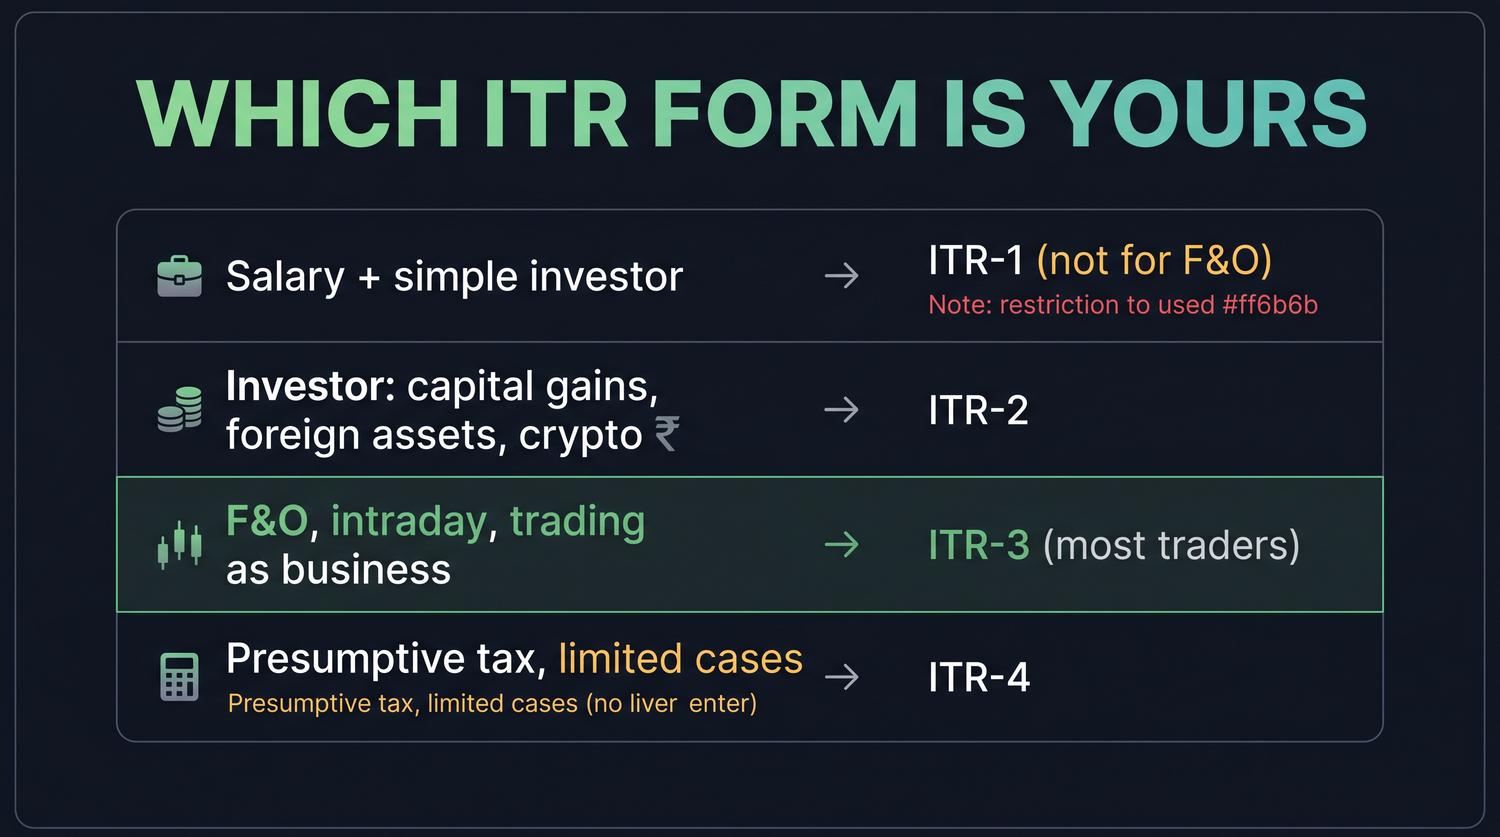
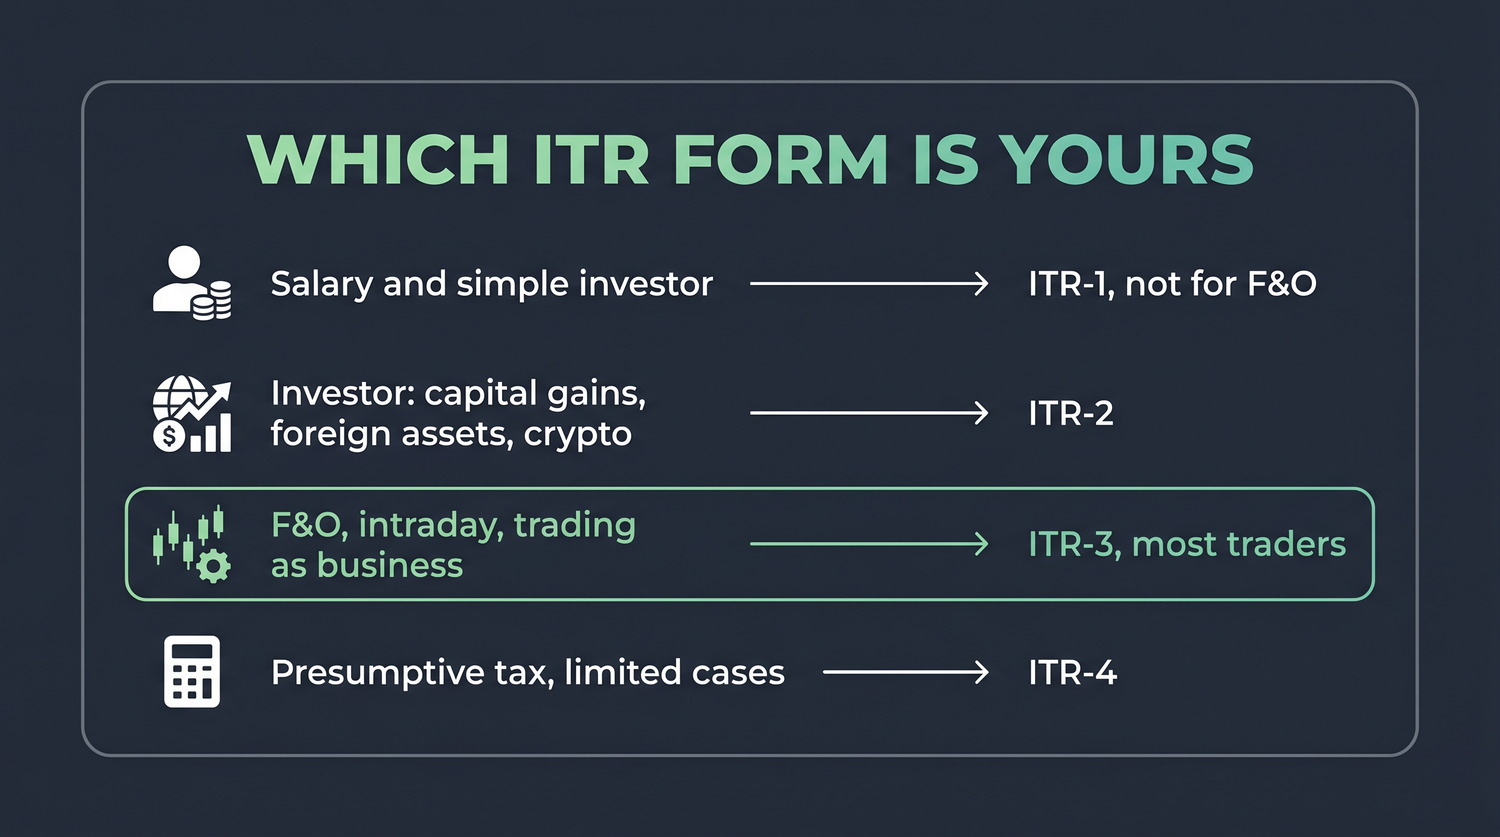
Site updates: 15-tool suite, options-strategies as Intermediate, NIFTY finale, ITR diagram fix
- Home and features pages: the Options Analytics suite is now 15 tools, not 12.
  Adds OI Range, Gamma Density and the Arbitrage scanner (matching the current
  OpenAlgo Tools hub) and bumps every "12-tool" reference to "15-tool".
- Options Strategies is re-labelled Intermediate (it covers all 38 builder
  strategies with the full nine-metric panel). Refreshes the stale landing page
  copy (was "14-chapter, beginner") to the live-NIFTY, 38-strategy reality.
- Rewrites the finale chapter (choosing-and-managing) onto live NIFTY numbers;
  it was the last chapter still using the old RELIANCE figures, which clashed
  with the rest of the NIFTY course. Adds a probability-of-profit step.
- Regenerates the taxation ITR-forms diagram (the prior render leaked stray
  text and a colour code).

diff --git a/app/options-strategies/page.jsx b/app/options-strategies/page.jsx
@@ -5,10 +5,10 @@ import { CHAPTERS, PARTS, TAG_CLASS } from "@/lib/optionsStrategiesCurriculum";
 
 const OG_IMAGE = "https://openalgo.in/assets/images/og-image.png";
 const LANDING_DESC =
-  "A free, modern, beginner-friendly 14-chapter course on options strategies. Combine calls and puts into real, named strategies, each explained for a beginner with an authentic payoff diagram built from OpenAlgo's own strategy-builder maths on real market data. Learn to read breakeven, max profit and max loss, then the directional spreads, straddles and strangles, the iron condor, iron fly and butterfly, ratio and back spreads, synthetics, the covered call, the jade lizard, and how to choose and manage a strategy. No prior knowledge assumed.";
+  "A free, modern course on options strategies for the developing trader. Build all 38 strategies in the OpenAlgo strategy builder, each with an authentic payoff chart and the full nine-metric panel (max profit, max loss, probability of profit, risk to reward, margin and more) drawn from the builder's own maths on live NIFTY data. Read the directional spreads, straddles and strangles, the iron condor, iron fly and butterfly, ratio and back spreads, synthetics, the jade lizard, batman, calendars and diagonals, plus margin, collateral, pledging, penalties and options adjustments, and learn to choose and manage a trade. Some options basics assumed.";
 
 export const metadata = {
-  title: { absolute: "Options Strategies - A Free Beginner's Course | OpenAlgo" },
+  title: { absolute: "Options Strategies - A Free Course for Traders | OpenAlgo" },
   description: LANDING_DESC,
   keywords: [
     "options strategies", "options strategies for beginners", "options strategies course", "option spreads",
@@ -19,14 +19,14 @@ export const metadata = {
   openGraph: {
     type: "website",
     url: "https://openalgo.in/options-strategies",
-    title: "Options Strategies - A Free Beginner's Course",
+    title: "Options Strategies - A Free Course for Traders",
     description: LANDING_DESC,
     siteName: "OpenAlgo",
     images: [{ url: OG_IMAGE, width: 1200, height: 630, alt: "Options Strategies course by OpenAlgo", type: "image/png" }],
   },
   twitter: {
     card: "summary_large_image",
-    title: "Options Strategies - A Free Beginner's Course",
+    title: "Options Strategies - A Free Course for Traders",
     description: LANDING_DESC,
     images: [OG_IMAGE],
     creator: "@openalgoHQ",
@@ -84,10 +84,10 @@ export default function OptionsStrategiesCourseHome() {
             Strategies
           </h1>
           <p className="reveal reveal-3 mt-5 max-w-2xl text-lg text-on-surface-variant">
-            Ready to combine calls and puts into real, named strategies? A modern, visual, beginner-first course where
-            every strategy comes with an authentic payoff diagram built from OpenAlgo&apos;s own strategy-builder maths
-            on real market data - so you see exactly where you profit, where you lose, and where you break even, from
-            simple spreads to the iron condor and beyond.
+            Ready to combine calls and puts into real, named strategies? A modern, visual course where every one of the
+            38 strategies comes with an authentic payoff diagram and the full nine-metric panel, built from
+            OpenAlgo&apos;s own strategy-builder maths on live NIFTY data, so you see exactly where you profit, where you
+            lose, and where you break even, from simple spreads to the iron condor and beyond.
           </p>
           <div className="reveal reveal-4 mt-8 flex flex-wrap gap-3">
             <Link
@@ -127,10 +127,10 @@ export default function OptionsStrategiesCourseHome() {
           <h2 className="text-lg font-bold text-on-surface">Why this course?</h2>
           <p className="mt-2 max-w-3xl text-on-surface-variant">
             Most options-strategy material throws named structures at you with textbook diagrams that never match a
-            real trade. This one is different: every strategy is explained for a beginner and drawn with an authentic
-            payoff diagram from OpenAlgo&apos;s own strategy-builder maths on real market data. It is honest about the
-            risk on each structure - defined or unlimited - and stresses defined risk first. The goal is to make you
-            read any payoff with clear eyes and match a strategy to your view, so you can make your own informed decisions.
+            real trade. This one is different: every strategy is drawn with an authentic payoff diagram and its nine
+            numbers from OpenAlgo&apos;s own strategy-builder maths on live NIFTY data. It is honest about the risk on
+            each structure, defined or unlimited, and stresses defined risk first. The goal is to make you read any
+            payoff with clear eyes and match a strategy to your view, so you can make your own informed decisions.
           </p>
         </div>
       </div>
@@ -168,7 +168,7 @@ export default function OptionsStrategiesCourseHome() {
           </section>
         ))}
         <p className="mt-14 border-t border-border pt-6 text-center text-sm text-on-surface-variant/70">
-          For education only - not investment advice. {CHAPTERS.length} chapters, built on real payoff charts for beginners.
+          For education only - not investment advice. {CHAPTERS.length} chapters, built on real payoff charts from live NIFTY data.
         </p>
       </div>
     </div>

diff --git a/app/features/page.js b/app/features/page.js
@@ -6,7 +6,7 @@ import {
   MessageCircle, LayoutDashboard, Terminal, Webhook, Activity,
   BarChart3, Gauge, FileJson, Brain, Search, Clock, GitMerge, Key, ShieldCheck,
   AlertCircle, User, Mail, Smartphone, History, Container,
-  Wand2, Layers, Target, Box, Sigma, PieChart, Wallet
+  Wand2, Layers, Target, Box, Sigma, PieChart, Wallet, Waves, ArrowLeftRight
 } from "lucide-react"
 
 const features = [
@@ -15,13 +15,16 @@ const features = [
   { title: "Option Chain", description: "Live option chain with Greeks, open interest, volume, and bid/ask - click any strike to trade instantly", icon: Layers, category: "Options Analytics" },
   { title: "Option Greeks Chart", description: "See how IV, Delta, Theta, Vega and Gamma have moved over time for the at-the-money strike", icon: Gauge, category: "Options Analytics" },
   { title: "OI Tracker", description: "Side-by-side call and put open interest with PCR and a marker showing where the spot is right now", icon: Activity, category: "Options Analytics" },
+  { title: "OI Range", description: "Open interest by strike across a custom range, with at-the-money quick selectors and optional one-minute auto-refresh", icon: BarChart3, category: "Options Analytics" },
   { title: "Max Pain", description: "Where price is most likely to settle at expiry, shown visually across all strikes", icon: Target, category: "Options Analytics" },
   { title: "Straddle Chart", description: "Combined price of the at-the-money call and put, with automatic strike roll as spot moves", icon: LineChart, category: "Options Analytics" },
   { title: "Straddle PnL Simulator", description: "Simulate how a straddle would have played out intraday with automated adjustments and a full trade log", icon: BarChart3, category: "Options Analytics" },
   { title: "Volatility Surface", description: "Live 3D view of implied volatility across every strike and expiry - spot skew and term structure at a glance", icon: Box, category: "Options Analytics" },
   { title: "GEX Dashboard", description: "See where market makers are positioned - find the biggest gamma walls acting as support and resistance", icon: Sigma, category: "Options Analytics" },
+  { title: "Gamma Density", description: "Gamma times open interest density and convexity zones, with intraday and to-expiry views, ATM IV, and one and two sigma expected-move bands", icon: Waves, category: "Options Analytics" },
   { title: "IV Smile", description: "Call and put implied volatility curves with the at-the-money marker, so you can read skew instantly", icon: PieChart, category: "Options Analytics" },
   { title: "OI Profile", description: "Futures candles with a call vs put open-interest butterfly and daily OI change - price action and positioning in one view", icon: Wallet, category: "Options Analytics" },
+  { title: "Arbitrage Scanner", description: "Realtime futures calendar-spread scanner across NFO and MCX, ranked by executable bid/ask spread, with one-click two-leg orders", icon: ArrowLeftRight, category: "Options Analytics" },
   { title: "Smart Orders", description: "Tell OpenAlgo the position you want and it works out the math - no more tracking holdings or calculating reverse quantities by hand", icon: Brain, category: "Order Management" },
   { title: "Basket Orders", description: "Fire multiple orders across symbols in one request - perfect for hedge pairs, spreads, or rebalancing a portfolio in one shot", icon: Package, category: "Order Management" },
   { title: "All Order Types", description: "Market, Limit, Stop-Loss and Stop-Loss Market orders across CNC, MIS, NRML - everything you need to place any trade", icon: FileJson, category: "Order Management" },
@@ -114,7 +117,7 @@ export default function FeaturesPage() {
             </h1>
             <p className="text-lg text-on-surface-variant max-w-3xl mx-auto leading-relaxed">
               OpenAlgo is a complete self-hosted stack for algo trading and options analytics -
-              a 12-tool options suite, a unified execution engine, and integrations across 33+ brokers,
+              a 15-tool options suite, a unified execution engine, and integrations across 33+ brokers,
               built for individual traders who want full control of their infrastructure.
             </p>
           </div>

diff --git a/app/features/metadata.js b/app/features/metadata.js
@@ -1,10 +1,10 @@
 export const metadata = {
   title: 'Features - Why OpenAlgo? | OpenAlgo',
-  description: 'Self-hosted algo trading + options analytics platform. 12-tool options suite (strategy builder, option chain, Greeks, OI, max pain, vol surface, GEX), multi-broker execution, and open-source infrastructure.',
+  description: 'Self-hosted algo trading + options analytics platform. 15-tool options suite (strategy builder, option chain, Greeks, OI, max pain, vol surface, GEX), multi-broker execution, and open-source infrastructure.',
   keywords: 'OpenAlgo features, algo trading platform, options analytics, options strategy builder, option chain, Greeks, open interest, max pain, vol surface, GEX, IV smile, AGPL license, open source trading, broker API, Python strategies, WebSocket streaming',
   openGraph: {
     title: 'Features - Why OpenAlgo? | OpenAlgo',
-    description: 'Self-hosted algo trading + options analytics platform. 12-tool options suite, multi-broker execution, advanced order management, and complete trading infrastructure.',
+    description: 'Self-hosted algo trading + options analytics platform. 15-tool options suite, multi-broker execution, advanced order management, and complete trading infrastructure.',
     url: 'https://openalgo.in/features',
     siteName: 'OpenAlgo',
     images: [
@@ -21,7 +21,7 @@ export const metadata = {
   twitter: {
     card: 'summary_large_image',
     title: 'Features - Why OpenAlgo? | OpenAlgo',
-    description: 'Self-hosted algo trading + options analytics platform. 12-tool options suite, multi-broker execution, and complete trading infrastructure.',
+    description: 'Self-hosted algo trading + options analytics platform. 15-tool options suite, multi-broker execution, and complete trading infrastructure.',
     images: ['/api/og?title=Why%20OpenAlgo%3F&subtitle=Features%20%26%20Licensing']
   }
 }

diff --git a/app/learn/page.jsx b/app/learn/page.jsx
@@ -153,14 +153,14 @@ const COURSES = [
     n: 8,
     route: "/options-strategies",
     title: "Options Strategies",
-    level: "Beginner",
+    level: "Intermediate",
     count: OS.length,
     color: "text-primary",
     ring: "hsl(267 100% 87% / 0.5)",
     grad: "from-primary via-tertiary to-secondary",
     blurb:
-      "Combine calls and puts into real, named strategies. Spreads, straddles and strangles, the iron condor, butterfly, ratios, synthetics and the jade lizard - each with an authentic payoff diagram from OpenAlgo's strategy-builder maths on real market data.",
-    points: ["Real strategy-builder payoffs", "Spreads to iron condors", "Defined risk first"],
+      "All 38 strategies in the OpenAlgo strategy builder, each with an authentic payoff chart and the full nine-metric panel (max profit, max loss, POP, risk to reward, margin) built on live NIFTY data. Spreads, straddles, iron condors and flies, ratios, jade lizards, batman, calendars, plus margin, pledging and adjustments.",
+    points: ["All 38 builder strategies", "Live NIFTY nine-metric panels", "Defined risk first"],
   },
   {
     n: 9,

diff --git a/app/page.js b/app/page.js
@@ -71,7 +71,7 @@ export default function Home() {
     {
       icon: LineChart,
       title: "Options & Strategy Analytics",
-      description: "12 built-in tools: strategy builder, option chain, Greeks, OI, max pain, vol surface, GEX.",
+      description: "15 built-in tools: strategy builder, option chain, Greeks, OI tracker and range, max pain, straddles, vol surface, GEX, gamma density, IV smile, and a futures arbitrage scanner.",
     },
     {
       icon: Server,
@@ -152,7 +152,7 @@ export default function Home() {
             <div className="w-2 h-2 rounded-full bg-tertiary pulse-live" />
             <span className="font-label text-label-md uppercase tracking-wider">
               <span className="text-primary">New in V2</span>
-              <span className="text-on-surface-variant"> - 12-Tool Options Analytics Suite</span>
+              <span className="text-on-surface-variant"> - 15-Tool Options Analytics Suite</span>
             </span>
             <ArrowRight className="w-3 h-3 text-primary" />
           </div>

diff --git a/lib/optionsStrategiesCurriculum.js b/lib/optionsStrategiesCurriculum.js
@@ -5,7 +5,7 @@
 
 export const SERIES_TITLE = "Options Strategies";
 export const SERIES_SUB =
-  "Every strategy in the OpenAlgo strategy builder, explained for a beginner. All 38 named structures come with an authentic payoff diagram and the full nine-metric panel (max profit, max loss, probability of profit, risk to reward, margin and more) built from OpenAlgo's own strategy-builder maths on live NIFTY data, so you see exactly what the builder shows.";
+  "Every strategy in the OpenAlgo strategy builder, explained clearly for the developing options trader. All 38 named structures come with an authentic payoff diagram and the full nine-metric panel (max profit, max loss, probability of profit, risk to reward, margin and more) built from OpenAlgo's own strategy-builder maths on live NIFTY data, so you see exactly what the builder shows.";
 
 export const PARTS = [
   {

diff --git a/content/options-strategies/md/ch26.md b/content/options-strategies/md/ch26.md
@@ -1,43 +1,43 @@
-You have spent this whole course meeting strategies one at a time, learning each by its payoff shape and its three numbers. Now comes the part that decides whether any of it makes you money: choosing the right one for the moment and managing it once it is on. A strategy is just a tool, and the best tool is the one that fits the job and the size of your account. This closing chapter pulls everything together. It maps your market view to a sensible structure, explains why a beginner should start with defined risk, shows how to size a position so a single bad trade cannot end your trading, and lays out clear rules for taking profit, adjusting, and walking away. We finish with a checklist you can run before every trade.
+You have spent this whole course meeting strategies one at a time, learning each by its payoff shape and its three numbers. Now comes the part that decides whether any of it makes you money: choosing the right one for the moment and managing it once it is on. A strategy is just a tool, and the best tool is the one that fits the job and the size of your account. This closing chapter pulls everything together. It maps your market view to a sensible structure, explains why you should start with defined risk, shows how to size a position so a single bad trade cannot end your trading, and lays out clear rules for taking profit, adjusting, and walking away. We finish with a checklist you can run before every trade.
 
 ## Start with your view, then pick the shape
 
-Every strategy in this course answers a different opinion about where RELIANCE goes next. So the first question is never which strategy, it is what do you actually think will happen. Are you bullish, bearish, expecting calm, or bracing for a big move in either direction? Once that is honest and specific, the structure almost picks itself.
+Every strategy in this course answers a different opinion about where NIFTY goes next. So the first question is never which strategy, it is what do you actually think will happen. Are you bullish, bearish, expecting calm, or bracing for a big move in either direction? Once that is honest and specific, the structure almost picks itself.
 
-{{image: diagram-strategy-by-view.png | The view-to-strategy selector: bullish, bearish, neutral, and big-move opinions each map to the defined-risk structures that fit them, so you choose the shape that matches what you actually expect RELIANCE to do. | diagram}}
+{{image: diagram-strategy-by-view.png | The view-to-strategy selector: bullish, bearish, neutral, and big-move opinions each map to the defined-risk structures that fit them, so you choose the shape that matches what you actually expect NIFTY to do. | diagram}}
 
-Here is the same idea as a table, using the real RELIANCE numbers from across the course so you can compare the three numbers side by side.
+Here is the same idea as a table, using the live NIFTY numbers from across the course (spot 24,056, lot 65, 28 July 2026 expiry) so you can compare the three numbers side by side.
 
 | Your view | Sensible structure | Breakeven(s) | Max profit | Max loss |
 |---|---|---|---|---|
-| Mildly bullish | Bull call spread | 1336 | Rs 12,205 | Rs 7,795 |
-| Bullish, want a credit | Bull put spread | 1304 | Rs 8,210 | Rs 11,790 |
-| Mildly bearish | Bear put spread | 1304 | Rs 11,790 | Rs 8,210 |
-| Bearish, want a credit | Bear call spread | 1336 | Rs 7,795 | Rs 12,205 |
-| Neutral, wide range | Iron condor | 1262 and 1378 | Rs 8,948 | Rs 11,052 |
-| Neutral, pins a strike | Iron fly | 1288 and 1352 | Rs 16,005 | Rs 3,995 |
-| Big move, either way | Long straddle | 1258 and 1382 | Unlimited | Rs 31,180 |
-| Big move, cheaper | Long strangle | 1250 and 1390 | Unlimited | Rs 15,176 |
+| Mildly bullish | Bull call spread | 24,106 | Rs 2,876 | Rs 3,624 |
+| Bullish, want a credit | Bull put spread | 24,011 | Rs 2,506 | Rs 3,994 |
+| Mildly bearish | Bear put spread | 24,011 | Rs 3,994 | Rs 2,506 |
+| Bearish, want a credit | Bear call spread | 24,106 | Rs 3,624 | Rs 2,876 |
+| Neutral, holds a range | Iron condor | 23,864 and 24,236 | Rs 5,616 | Rs 884 |
+| Neutral, pins a strike | Iron fly | 23,956 and 24,148 | Rs 6,130 | Rs 370 |
+| Big move, either way | Long straddle | 23,329 and 24,771 | Unlimited | Rs 46,858 |
+| Big move, cheaper | Long strangle | 23,323 and 24,777 | Unlimited | Rs 40,729 |
 
-Read this table as a menu, not a ranking. A bull call spread is not better than an iron condor; they answer different views. The discipline is to let your honest opinion choose the row, rather than picking a strategy you like and then inventing a view to justify it.
+Read this table as a menu, not a ranking. A bull call spread is not better than an iron condor; they answer different views. The discipline is to let your honest opinion choose the row, rather than picking a strategy you like and then inventing a view to justify it. Remember too that the probability of profit, which you can read off the builder panel, is part of the choice: a high-credit iron condor with tight strikes wins less often than a wider one, so set your strikes to the odds you actually want.
 
 :::key
-The order of decisions matters. First form a clear, specific view on RELIANCE. Then choose the structure whose payoff shape rewards that exact view. Choosing the strategy first and bending your view to fit it is the most common way beginners lose money on perfectly good structures.
+The order of decisions matters. First form a clear, specific view on NIFTY. Then choose the structure whose payoff shape rewards that exact view. Choosing the strategy first and bending your view to fit it is the most common way traders lose money on perfectly good structures.
 :::
 
 ## Defined risk first, always
 
-If you remember one rule from this entire course, make it this. As a beginner you should trade **defined-risk** structures, the ones whose maximum loss is a fixed, known number printed on the chart before you ever enter.
+If you remember one rule from this entire course, make it this. Until you are experienced, trade **defined-risk** structures, the ones whose maximum loss is a fixed, known number printed on the chart before you ever enter.
 
-Look back at the table. The bull call spread risks Rs 7,795 and not a rupee more. The iron condor risks Rs 11,052, the iron fly just Rs 3,995. Every one of those losses is capped, because a bought option somewhere caps it. You can lose your maximum, but you can never lose a surprise.
+Look back at the table. The bull call spread risks Rs 3,624 and not a rupee more. The iron condor risks Rs 884, the iron fly just Rs 370. Every one of those losses is capped, because a bought option somewhere caps it. You can lose your maximum, but you can never lose a surprise.
 
-Contrast that with the structures this course flagged with warnings: the short straddle and short strangle, the call ratio spread, the long synthetic future, the short put inside a jade lizard. Each of those carries an **undefined or unlimited loss** on at least one side. They can pay well and experienced traders use them, but a single violent move in RELIANCE can cost many times the premium you collected. That is not where a beginner should learn.
+Contrast that with the structures this course flagged with warnings: the short straddle and short strangle, the call and put ratio spreads, the long and short synthetic future, the short put inside a jade lizard. Each of those carries an **undefined or unlimited loss** on at least one side, and the margin to match, often more than a lakh and a half for a single index lot. They can pay well and experienced traders use them, but a single violent move in NIFTY can cost many times the premium you collected. That is not where you should learn.
 
 :::warn
 Strategies with unlimited or open-ended loss, short straddles and strangles, ratio spreads with a naked leg, synthetic futures, and bare short puts, can lose far more than you collect and have ended trading accounts in a single session. Master defined-risk structures, where the worst case is printed on the chart, before you go anywhere near them.
 :::
 
-There is a second reason defined risk matters for beginners: it lets you size correctly, because you know the exact worst case in advance. You cannot size a position sensibly if you do not know how much it can lose, and undefined-risk trades hide that number from you.
+There is a second reason defined risk matters: it lets you size correctly, because you know the exact worst case in advance. You cannot size a position sensibly if you do not know how much it can lose, and undefined-risk trades hide that number from you.
 
 ## Size every position to survive
 
@@ -46,8 +46,8 @@ The fastest way to fail is not picking wrong strategies. It is putting too much 
 The simple rule professionals use is to risk only a small slice of your account on any single trade, often **one to two percent.** With defined risk this is easy arithmetic, because your maximum loss is known.
 
 - Suppose your account is Rs 5,00,000 and you cap risk at two percent, which is Rs 10,000 per trade.
-- A bull call spread on RELIANCE risks Rs 7,795 for one lot. One lot fits comfortably under your Rs 10,000 limit, so one lot is your size.
-- An iron condor risking Rs 11,052 for one lot is already slightly over the limit, so you either trade it on a smaller account allocation or choose a structure that fits.
+- A bull call spread risks Rs 3,624 for one lot. That fits comfortably under your Rs 10,000 limit, and even two lots, risking Rs 7,248, would still be inside it.
+- A long straddle risks Rs 46,858 for one lot. That is almost five times your Rs 10,000 limit, so a single lot is already far too big and you skip it or wait for a cheaper structure that fits.
 
 The point is not the exact percentage. It is that your size flows from your maximum loss, not from how confident you feel. Confidence is the worst possible sizing input, because you feel most confident right before the trades that hurt most.
 
@@ -61,7 +61,7 @@ A position is not finished when you open it. Decide your management rules before
 
 **When to take profit.** You do not need to hold a credit trade to expiry to win. Many traders close a defined-risk credit structure once it has captured a large part of its maximum profit, often around half to three quarters, rather than squeezing the last rupees while exposed to a reversal. Taking a good profit early frees your capital and removes risk you no longer need to carry. For a debit spread, the same idea applies: if the move you wanted has mostly happened and the position is near its max profit well before expiry, closing it locks in the win.
 
-**When to adjust.** Adjusting means changing legs to repair a trade that has moved against you, for example rolling an untested side of an iron condor closer to collect more credit, or moving a threatened short strike further away. Adjusting is a real skill, but it is also where beginners get into trouble by throwing good money after bad. As a beginner, prefer simple management over clever repairs. An adjustment that adds risk to rescue a loser is often worse than simply accepting the defined loss you signed up for.
+**When to adjust.** Adjusting means changing legs to repair a trade that has moved against you, the subject of the adjustments chapter, for example rolling an untested side of an iron condor closer to collect more credit, or moving a threatened short strike further away. Adjusting is a real skill, but it is also where traders get into trouble by throwing good money after bad. Prefer simple management over clever repairs. An adjustment that adds risk to rescue a loser is often worse than simply accepting the defined loss you signed up for.
 
 **When to exit.** Exit when the reason for the trade is gone, when your view has changed, or when the position hits a loss level you set in advance. With defined risk you always have the option to do nothing and let the worst case play out, because it is capped, but exiting early to preserve capital is usually wiser than watching a trade grind to its full loss. Never widen your risk to avoid taking a loss; that is how a small defined loss turns into an undefined one.
 
@@ -73,10 +73,11 @@ Decide your exits before you enter. Write down the profit level where you will c
 
 Run this list before you place any strategy. If you cannot answer every line, the trade is not ready.
 
-- **View.** Can I state in one plain sentence what I expect RELIANCE to do and roughly by when?
+- **View.** Can I state in one plain sentence what I expect NIFTY to do and roughly by when?
 - **Shape.** Does this structure's payoff actually reward that view, and have I looked at its chart?
 - **Three numbers.** Do I know the breakeven, the maximum profit, and the maximum loss before I enter?
-- **Defined risk.** Is my worst case capped and known? If not, do I truly understand and accept an open-ended loss?
+- **Odds.** Have I checked the probability of profit, and does the reward justify it?
+- **Defined risk.** Is my worst case capped and known? If not, do I truly understand and accept an open-ended loss and its large margin?
 - **Size.** Does my number of lots come from my loss limit, keeping risk to a small slice of my account?
 - **Exits.** Have I written down where I take profit, where I cut the loss, and the date I am out?
 - **Rehearsal.** Have I built it in the strategy builder and, if it is new to me, run it in sandbox trading (analyzer mode in OpenAlgo) first?
@@ -85,4 +86,4 @@ Run this list before you place any strategy. If you cannot answer every line, th
 The traders who last are rarely the ones with the cleverest strategies. They are the ones who match a simple structure to a clear view, keep their risk defined, size small enough to survive a losing streak, and follow their own exit plan. Every tool in this course works inside that discipline and none of it works without it.
 :::
 
-That is the whole craft in miniature. You now know the named structures, how to read any payoff by its shape and its three numbers, and how to choose, size, and manage a trade with honest respect for its risk. Keep starting from defined-risk structures, keep your size small, and keep rehearsing in the strategy builder before real money is on the line. The strategies will always be there. Protecting your capital so you are still trading next year is the part that makes them matter.
+That is the whole craft in miniature. You now know the named structures, how to read any payoff by its shape and its nine numbers, and how to choose, size, and manage a trade with honest respect for its risk. Keep starting from defined-risk structures, keep your size small, and keep rehearsing in the strategy builder before real money is on the line. The strategies will always be there. Protecting your capital so you are still trading next year is the part that makes them matter.

diff --git a/README.md b/README.md
@@ -33,7 +33,7 @@ Ten free, hands-on courses cover beginner entry points (market basics, chart-rea
 | [AmiBroker AFL](https://openalgo.in/amibroker) (`/amibroker`) | Beginner | 36 | AFL from scratch - indicators, scans, backtests, optimization, alerts, and OpenAlgo order automation. |
 | [Futures Trading](https://openalgo.in/futures) (`/futures`) | Beginner | 12 | Futures from zero - contracts, margin and leverage, mark-to-market, long/short, the payoff, basis, rollover, hedging, and the risks of leverage, on real Indian market examples. |
 | [Options Basics](https://openalgo.in/options-basics) (`/options-basics`) | Beginner | 14 | Options from absolute zero - calls and puts, premium/strike/expiry, moneyness, intrinsic and time value, the option chain, the four payoffs, the Greeks, and implied volatility, with real payoff charts. |
-| [Options Strategies](https://openalgo.in/options-strategies) (`/options-strategies`) | Beginner | 26 | All 38 strategies in the OpenAlgo strategy builder, each with an authentic payoff chart and the full nine-metric panel (max profit/loss, POP, risk to reward, margin and more) built from the builder's own maths on live NIFTY data: spreads, straddles, strangles, iron condors and flies, butterflies, ratios, jade lizards, batman, calendars and synthetics, plus margin/collateral/pledging/penalties and options adjustments. |
+| [Options Strategies](https://openalgo.in/options-strategies) (`/options-strategies`) | Intermediate | 26 | All 38 strategies in the OpenAlgo strategy builder, each with an authentic payoff chart and the full nine-metric panel (max profit/loss, POP, risk to reward, margin and more) built from the builder's own maths on live NIFTY data: spreads, straddles, strangles, iron condors and flies, butterflies, ratios, jade lizards, batman, calendars and synthetics, plus margin/collateral/pledging/penalties and options adjustments. |
 | [Taxation for Traders and Investors](https://openalgo.in/taxation) (`/taxation`) | Beginner | 19 | Tax in plain English with real case studies - the income buckets, old vs new regime, advance tax and deadlines, capital gains and STT, intraday, F&O business income (turnover, audit, loss set-off), US stocks and Schedule FA, crypto tax, and choosing your ITR. Educational only, not tax advice. |
 
 Course content lives as Markdown + tested Python examples under `content/`, rendered to JSON at build time by the generators in `scripts/`. Strategies are tested in OpenAlgo's **analyzer (sandbox) mode** - never with claims of live data.